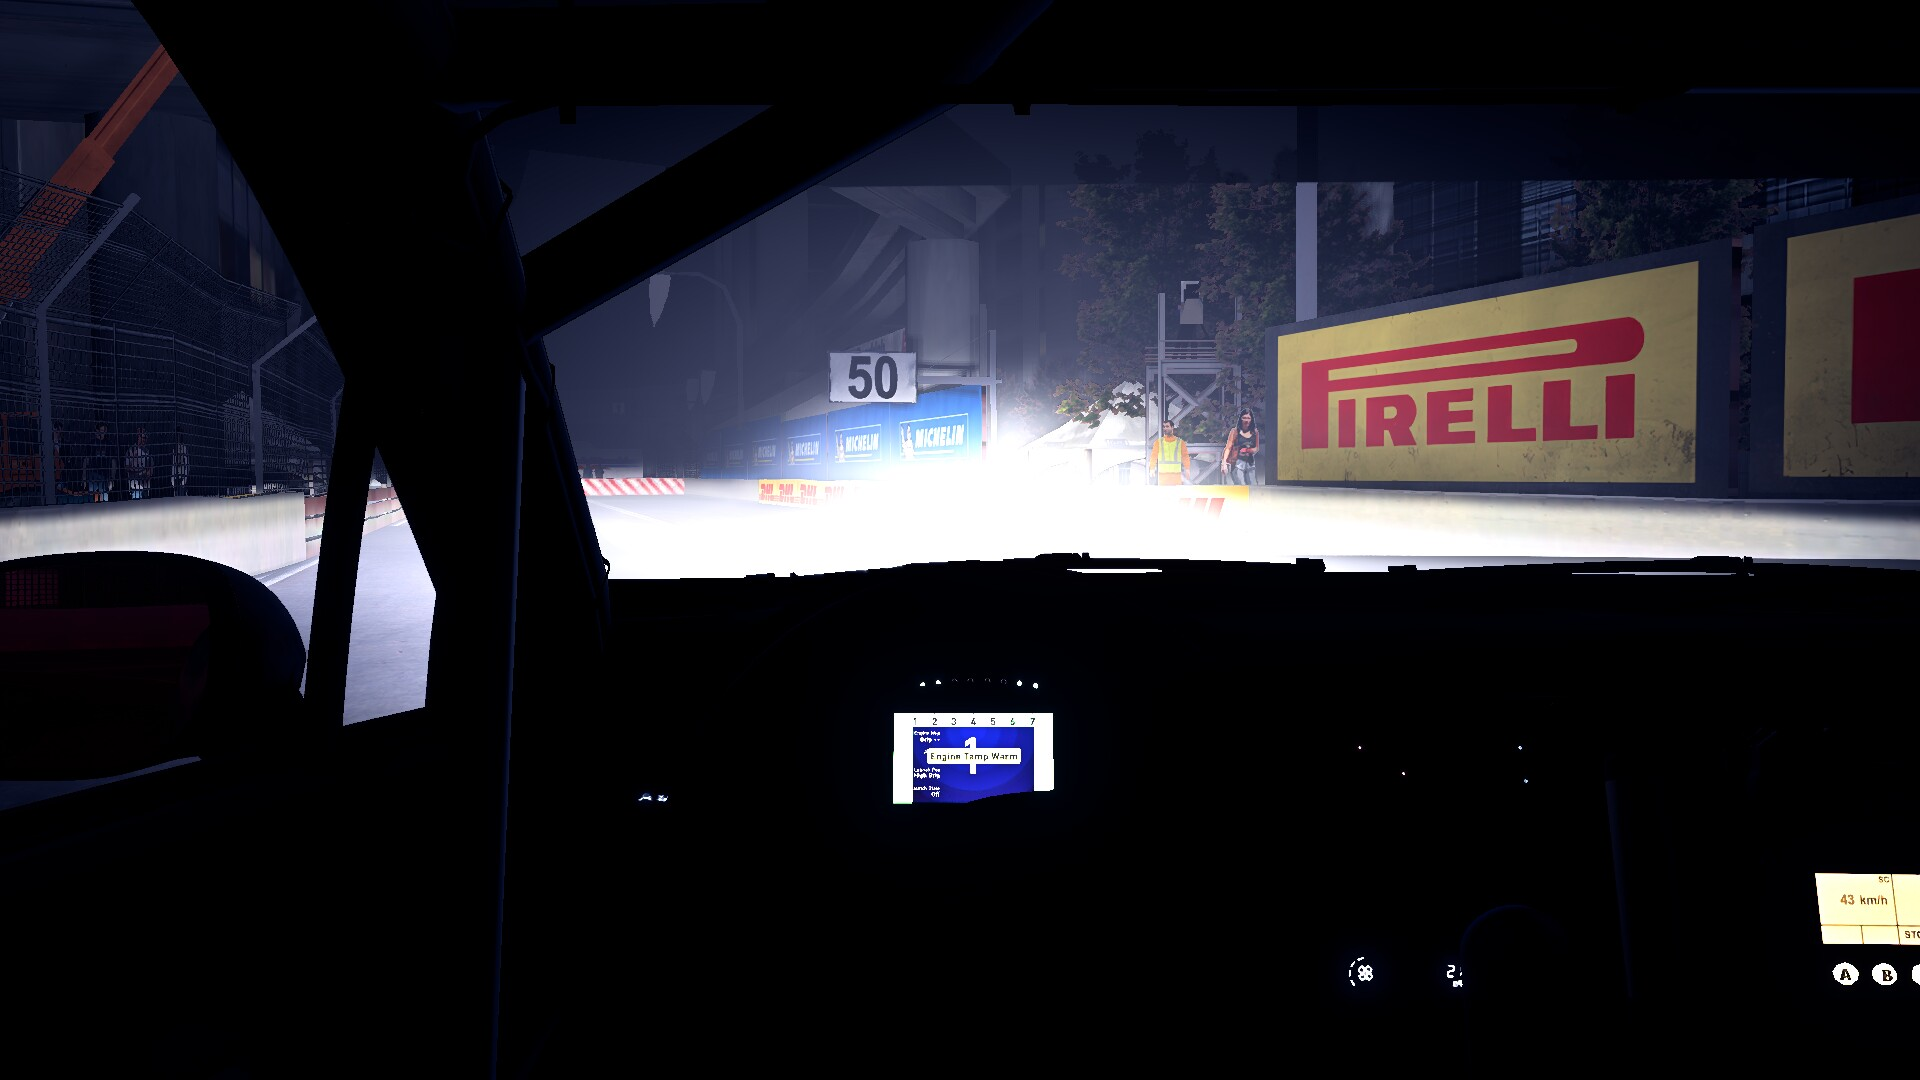
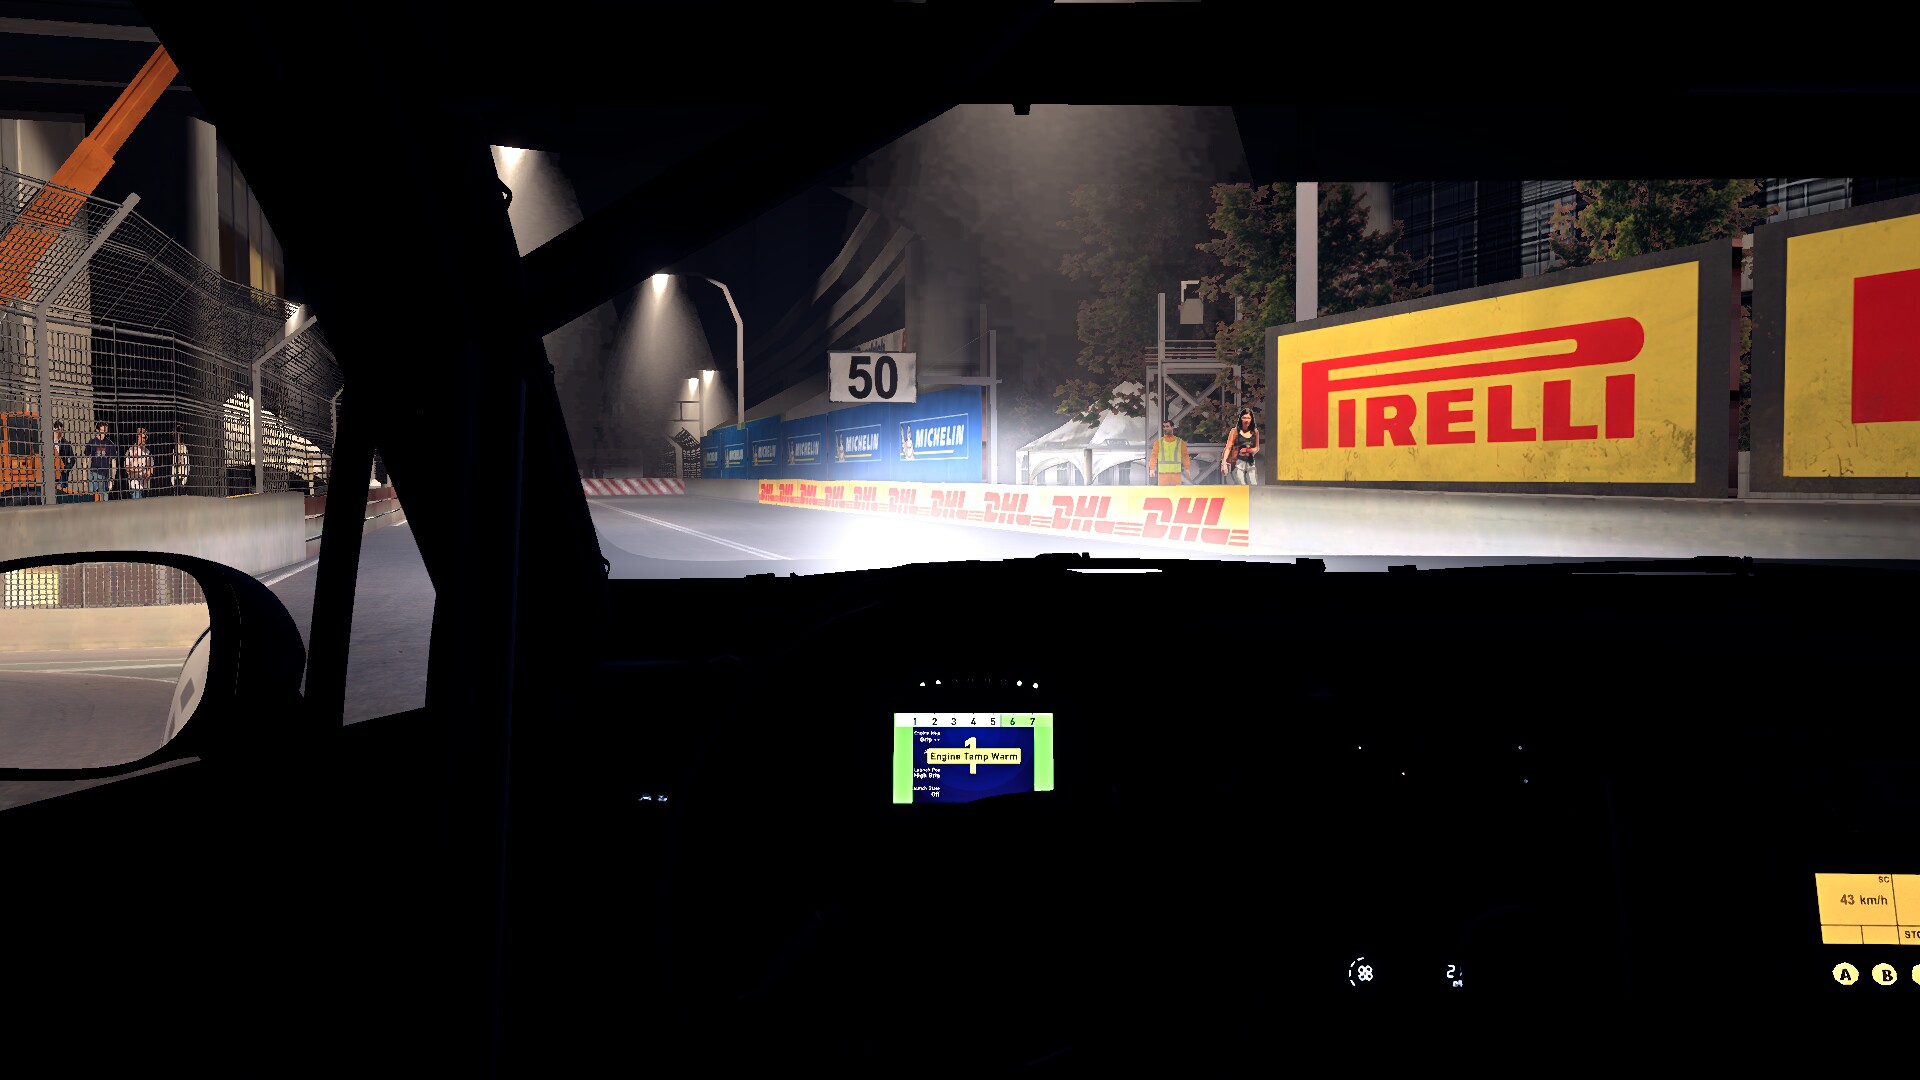
Stage lamps: notes, status row, night Sardian previews

diff --git a/notes/renderer.md b/notes/renderer.md
@@ -700,6 +700,19 @@ swaps the `Predicate = on/off` parts and restarts the flare fade.
   linear light; the rippled normal breaks it up. Replaced the fixed brightnesses: the 45O wet flyby's one clipped slab is
   two rippled streaks (clipped 6.6 to 5.4 % of the frame; road crop flicker mean 6.4 to 9.1, the ripples' edges), the
   chase's red haze under the tail lamps is gone (they shine little that steeply down); day wet and dry byte-identical.
+- Stage lamps (ours, 2026-11-16; `stage_lamps.rs`, `stage_lamps_pass.rs`, `stage_lamps.wgsl`, `street_sum` in
+  `night.wgsl`): the night stages bake their street lights as alpha-tested light sprites, drawn as white blobs. A
+  sprite is a world-anchored draw with alpha ref, one texture, no shade or shadow, a name with GLO, SPOT, BULB, LIGHT,
+  LAMP or FLARE, and a soft white alpha (texels with alpha 16 or more have luminance ≥0.8 and grey ≤0.12, 60% below 240,
+  coverage ≤60%; this rejects clouds, fences, signs and smoke). Each triangle's lamp is at the texture's peak alpha,
+  aimed at its alpha centre, or omni for a star. Lamps within 1 m merge. Their sprites leave the stage meshes and
+  are drawn additively, without depth writes, as haze plus a glaring bulb, fogged. The 16 nearest lamps (`MAX_STREET`,
+  fading out before the 17th) light every lit pipeline: 2000 cd times (sprite size / 8 m)², warm white, reach 90 m,
+  a cone of exponent 0.5 for an aimed lamp. They shine at night and by `relight.lamps` at dusk. Frames without stage
+  lamps are byte-identical (the 34 other reference shots). Lamps found: 126 Sardian Night 137, 401 80, 466 138, 467 135,
+  465 Odry snow II 100, 464 29, 141 27, 481 10. 125 Sardian (day) has no sprites. Night Sardian 1080p chase: scene
+  1.92 to 2.20 ms, frame drawn 3.76 to 3.95 ms. Open: wet-road glints, shadows from the stage lamps, the fire
+  lights (`feu`). `examples/stage_lamps.rs MAPS STAGE...` lists a stage's lamps.
 
 ## Damage visuals
 

diff --git a/notes/status.md b/notes/status.md
@@ -90,6 +90,7 @@ rbr-recomp `notes/progress/systems.md`; history up to the split: rbr-recomp `LOG
 | Rain and snow particles | done | - |
 | Windscreen, wipers | partial | crack normal map, camera dirt |
 | Night mode, render enhancements | done (ours) | - |
+| Stage lamps (the night stages' street lights) | partial (ours) | wet-road glints, shadows, fire lights ([renderer.md](renderer.md#time-of-day-and-night)) |
 | Cockpit mirrors | done (ours) | set for the driver's eye, not as modelled; the Fiesta Rally2: none found; images not anti-aliased |
 | In-car and chase cameras | done | mode 3 ground probe; chase capture |
 | Start orbit, helicam, seat shake | done | - |
